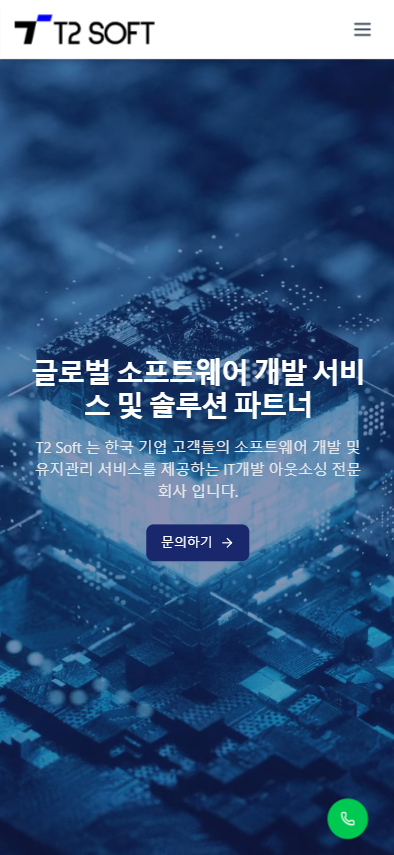
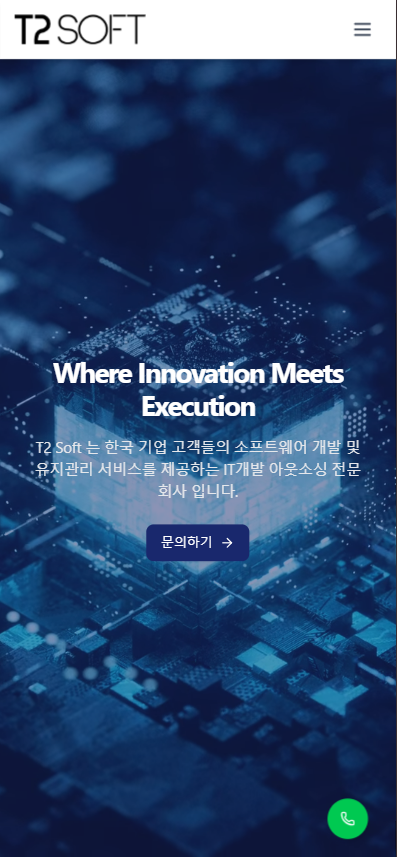
update UI

diff --git a/index.html b/index.html
@@ -5,7 +5,7 @@
 		<link
 			rel="icon"
 			type="image/png"
-			href="/T2_icon_dark.png"
+			href="/T2_ICon.png"
 		/>
 
 		<!--
@@ -27,10 +27,10 @@
 			name="viewport"
 			content="width=device-width, initial-scale=1.0"
 		/>
-		<title>T2 Soft - 혁신적인 솔루션으로 비즈니스를 혁신하세요</title>
+		<title>T2 Soft – Where Innovation Meets Execution.</title>
 		<meta
 			name="description"
-			content="T2soft는 한국 기업 고객을 위한 소프트웨어 개발 및 유지보수, IT 컨설팅 서비스를 제공하는 베트남 SI 및 IT 아웃소싱 회사입니다. 고객의 요구에 최적화된 고품질 IT 솔루션을 신속하게 제공하고, 디지털 전환을 성공적으로 지원하며, 고객과 함께 성장하는 것을 목표로 합니다."
+			content="T2 Soft는 한국 기업 고객을 위한 소프트웨어 개발 및 유지보수, IT 컨설팅 서비스를 제공하는 베트남 SI 및 IT 아웃소싱 회사입니다. 고객의 요구에 최적화된 고품질 IT 솔루션을 신속하게 제공하고, 디지털 전환을 성공적으로 지원하며, 고객과 함께 성장하는 것을 목표로 합니다."
 		/>
 		<meta
 			name="keywords"
@@ -44,15 +44,15 @@
 		<!-- Facebook Open Graph -->
 		<meta
 			property="og:title"
-			content="T2Soft – 혁신적인 IT 솔루션으로 비즈니스를 선도합니다."
+			content="T2 Soft – Where Innovation Meets Execution."
 		/>
 		<meta
 			property="og:description"
-			content="웹사이트, 소프트웨어, 모바일 앱 설계 – 운영 최적화 및 미래 연결."
+			content="Leading the next generation of technology as your trusted development partner."
 		/>
 		<meta
 			property="og:image"
-			content="https://T2soft.vn/T2_icon_dark.png"
+			content="https://T2soft.vn/T2_ICon.png"
 		/>
 		<meta
 			property="og:url"
@@ -70,7 +70,7 @@
 		/>
 		<meta
 			name="twitter:title"
-			content="T2Soft – 혁신적인 IT 솔루션으로 비즈니스를 선도합니다."
+			content="T2 Soft – Where Innovation Meets Execution."
 		/>
 		<meta
 			name="twitter:description"
@@ -78,7 +78,7 @@
 		/>
 		<meta
 			name="twitter:image"
-			content="https://T2soft.vn/T2_icon_dark.png"
+			content="https://T2soft.vn/T2_ICon.png"
 		/>
 		<title>T2soft</title>
 	</head>

diff --git a/src/layouts/components/Header.jsx b/src/layouts/components/Header.jsx
@@ -1,8 +1,8 @@
 /* eslint-disable react-hooks/exhaustive-deps */
 import england from "@/assets/images/usa.png";
 import korea from "@/assets/images/korea.webp";
-import t2darklogo from "@/assets/logos/T2_white_logo.png";
-import t2lightlogo from "@/assets/logos/T2_dark_logo.png";
+import t2darklogo from "@/assets/logos/T2 Soft_white logo.png";
+import t2lightlogo from "@/assets/logos/T2_Soft_Logo.png";
 import {
 	Drawer,
 	DrawerClose,
@@ -210,6 +210,7 @@ const Header = () => {
 								language={language}
 								LANGUAGE={LANGUAGE}
 								changeLanguage={changeLanguage}
+								setIsOpenBlog={setIsOpenBlog}
 							/>
 						</div>
 
@@ -225,6 +226,30 @@ const Header = () => {
 							)}
 						</button>
 					</div>
+					{/* Theme Toggle */}
+					{/* <div className="flex justify-between items-center">
+						<div className="flex items-center text-gray-700 dark:text-gray-200">
+							{isDarkMode ? (
+								<Sun className="h-5 w-5 mr-2" />
+							) : (
+								<Moon className="h-5 w-5 mr-2" />
+							)}
+							<span>{isDarkMode ? "Dark" : "Light"}</span>
+						</div>
+						<button
+							onClick={toggleDarkMode}
+							className="relative inline-flex h-6 w-11
+									 items-center rounded-full bg-gray-200 dark:bg-gray-700"
+						>
+							<span
+								className={`${
+									isDarkMode
+										? "translate-x-6 bg-blue-500"
+										: "translate-x-1 bg-white"
+								} inline-block h-4 w-4 transform rounded-full transition`}
+							/>
+						</button>
+					</div> */}
 
 					<button
 						type="button"
